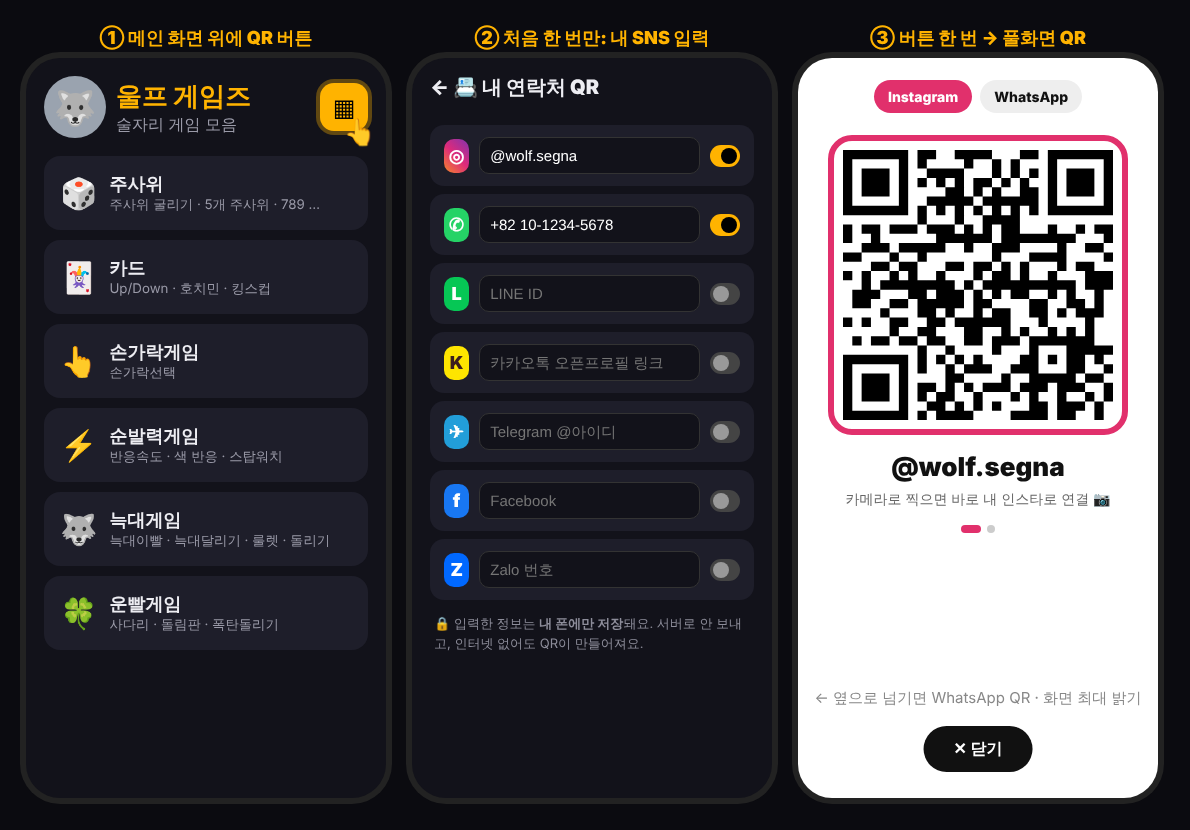
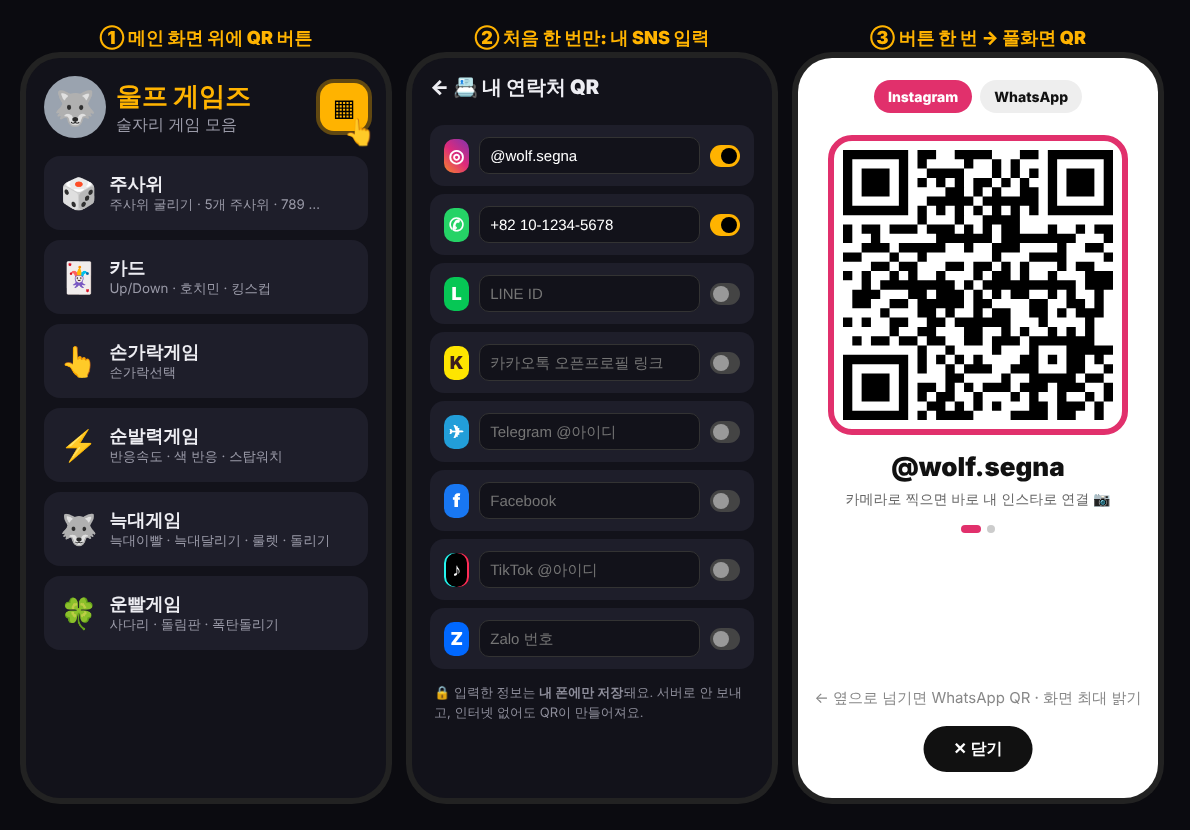
메모: 연락처 QR에 TikTok 추가
Claude-Session: https://claude.ai/code/session_013mN1tc9XfbmBn9GeSidaFd

Changed region(s): [[0.3731, 0.6627, 0.6218, 0.8735], [0.5908, 0.753, 0.6218, 0.7831], [0.5597, 0.7229, 0.5908, 0.753]]

diff --git a/docs/samples/connect-qr/sample.html b/docs/samples/connect-qr/sample.html
@@ -46,6 +46,7 @@ body{margin:0;background:#0B0B10;font-family:-apple-system,"Noto Sans KR",sans-s
  <div class=row><div class=ic style="background:#FEE500;color:#3C1E1E">K</div><input placeholder="카카오톡 오픈프로필 링크"><div class="tog off"></div></div>
  <div class=row><div class=ic style="background:#229ED9">✈</div><input placeholder="Telegram @아이디"><div class="tog off"></div></div>
  <div class=row><div class=ic style="background:#1877F2">f</div><input placeholder="Facebook"><div class="tog off"></div></div>
+ <div class=row><div class=ic style="background:#000;box-shadow:inset 2px 0 #25F4EE,inset -2px 0 #FE2C55">♪</div><input placeholder="TikTok @아이디"><div class="tog off"></div></div>
  <div class=row><div class=ic style="background:#0068FF">Z</div><input placeholder="Zalo 번호"><div class="tog off"></div></div>
  <div class=note>🔒 입력한 정보는 <b>내 폰에만 저장</b>돼요. 서버로 안 보내고, 인터넷 없어도 QR이 만들어져요.</div>
 </div></div>

diff --git a/docs/BACKLOG.md b/docs/BACKLOG.md
@@ -181,7 +181,7 @@
 
 ### 📇 연락처 QR (Connect QR) (2026-10-25 메모, 시안 `docs/samples/connect-qr/connect_qr.png`)
 - 술자리 끝날 때 인스타·왓츠앱 교환용. 메인 화면 위쪽(제목 옆)에 **QR 버튼** → 한 번 누르면 **풀화면 흰 배경 QR**
-- 처음 한 번만 내 SNS 입력, 켜 둔 것만 QR로 (옆으로 넘겨서 바꾸기): Instagram(`instagram.com/아이디`) · WhatsApp(`wa.me/번호`) · LINE · 카카오톡 오픈프로필 링크 · Telegram(`t.me/아이디`) · Facebook · Zalo(`zalo.me/번호`) 등
+- 처음 한 번만 내 SNS 입력, 켜 둔 것만 QR로 (옆으로 넘겨서 바꾸기): Instagram(`instagram.com/아이디`) · WhatsApp(`wa.me/번호`) · LINE · 카카오톡 오픈프로필 링크 · Telegram(`t.me/아이디`) · Facebook · **TikTok(`tiktok.com/@아이디`)** · Zalo(`zalo.me/번호`) 등
 - 상대는 폰 기본 카메라로 찍으면 바로 그 앱 프로필/채팅으로 연결
 - **웹·앱 둘 다 가능**: QR은 폰 안에서 직접 만듦 (작은 무료 라이브러리 `qrcode-generator`, MIT) → 서버 필요 없음, 인터넷 없어도 됨
 - 입력한 정보는 **그 폰에만 저장** (웹: 브라우저 저장소, 앱: 앱 설정). 어디에도 안 보냄
